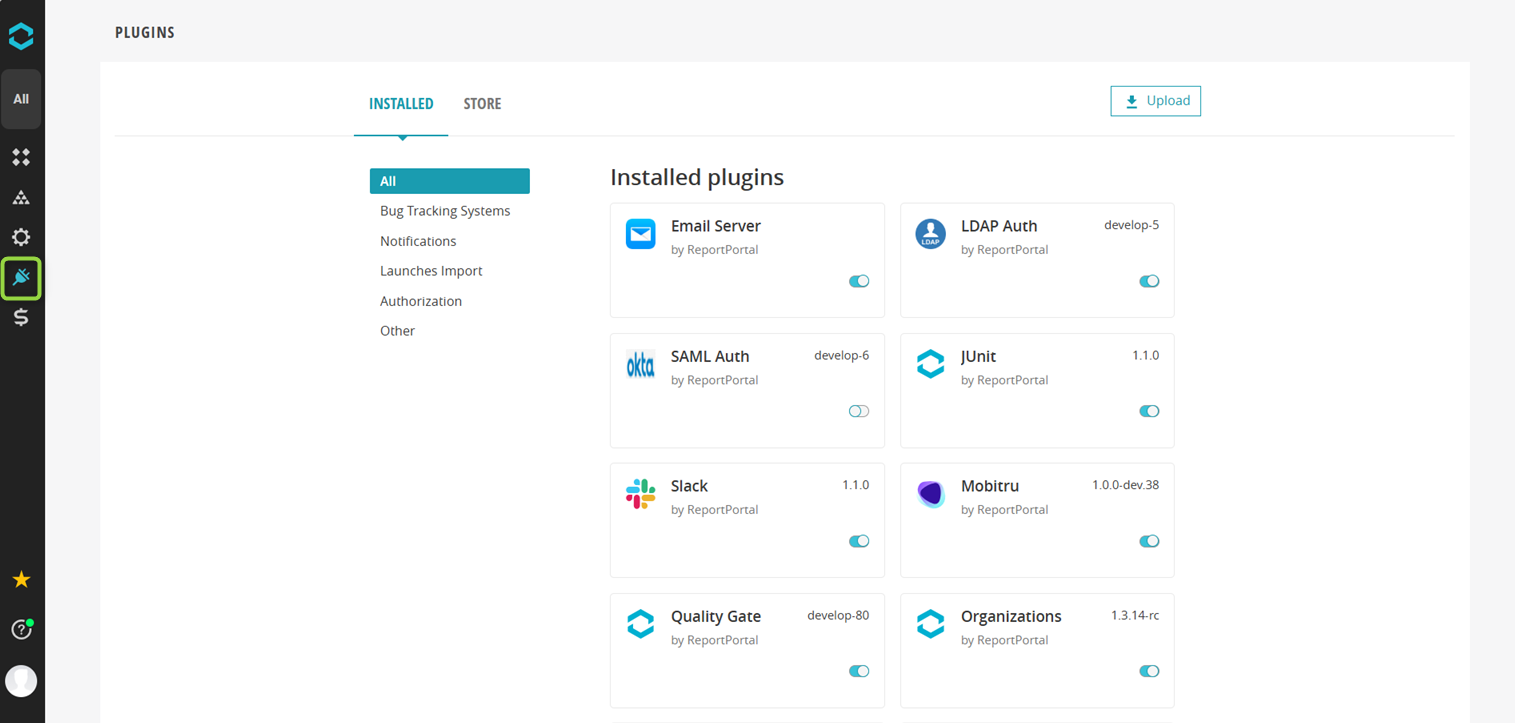
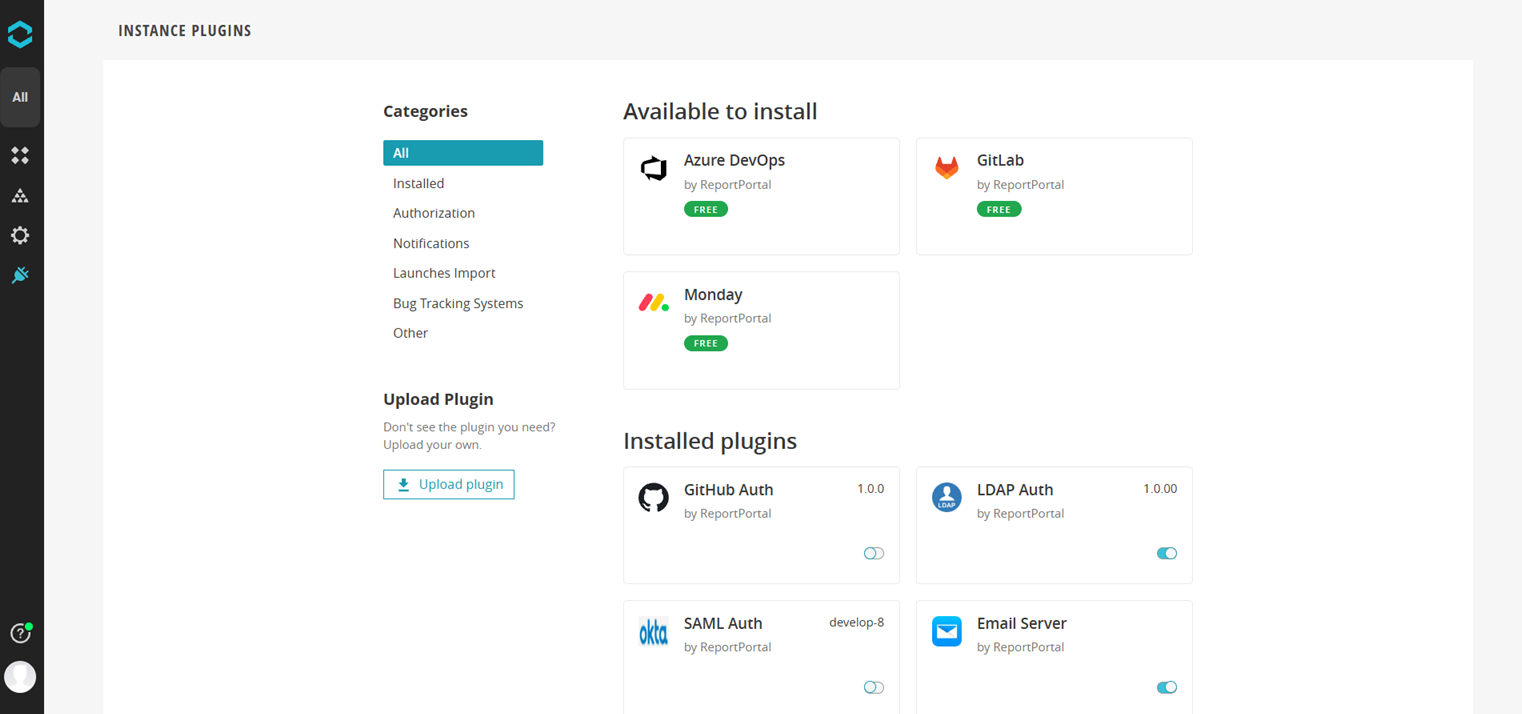
New version Docs

diff --git a/docs/working-with-test-results/saved-searches-filters/FiltersPage.md b/docs/working-with-test-results/saved-searches-filters/FiltersPage.md
@@ -8,6 +8,10 @@ description: Manage and organize saved searches on the filters page. View person
 
 The **Filters page** in ReportPortal is a dedicated space for managing and organizing saved searches, providing a clear and accessible overview of all filters. This page shows your personal filters, making it easy to streamline test data access and focus on relevant information.
 
+:::info
+Admin, Manager, user with edit permissions can do the actions, user with view permissions has only read only access.
+:::
+
 The Filters page includes several key details for each filter:
 
 - **Filter name and description**<br />
@@ -20,12 +24,12 @@ The Filters page includes several key details for each filter:
   The name of the team member who created the filter is displayed.
 
 - **Display on launches toggle**<br />
-  This ON/OFF switch determines if the filter should be readily available on the Launches page. Activating this option makes the filter easily accessible for all users, while deactivating it keeps the filter private.
+  This ON/OFF switch determines if the filter should be readily available on the Automated Launches page. Activating this option makes the filter easily accessible for all users, while deactivating it keeps the filter private.
 
 - **Delete option**<br />
   Each filter has a delete icon, allowing users to remove unnecessary filters if no longer needed.
 
-To open launches based on a saved filter, click on the filter’s name. This action will open a new tab on the Launches page, pre-filtered according to the selected criteria, simplifying navigation through large datasets.
+To open launches based on a saved filter, click on the filter’s name. This action will open a new tab on the Automated Launches page, pre-filtered according to the selected criteria, simplifying navigation through large datasets.
 
 This Filters page is the only location where filters can be permanently deleted from test automation results dashboard. To delete a filter, simply click the delete icon associated with it and confirm the action. Note that while this will remove the filter, it will not delete the test launches or results associated with it.
 

diff --git a/docs/configuration/instance-level/Plugins.md b/docs/configuration/instance-level/Plugins.md
@@ -1,16 +1,16 @@
 ---
 sidebar_position: 4
-sidebar_label: Plugins
+sidebar_label: Instance Plugins
 description: Integrate ReportPortal with bug tracking, notifications, authorization, and import plugins to streamline QA workflows.
 ---
 
-# Plugins
+# Instance Plugins
 
-"Plugins" page can be accessible using sidebar.
+Instance Plugins page can be accessible using sidebar.
 
 <MediaViewer src={require('./img/Plugins.png')} alt="Plugins section in our test report dashboard" />
 
-The Plugins page provides the ability to integrate a variety of plugins with ReportPortal. These plugins are grouped into five main categories: Bug Tracking System plugins, Notification plugins, Authorization plugins, Import plugins, and Other plugins. 
+The Instance Plugins page provides the ability to integrate a variety of plugins with ReportPortal. These plugins are grouped into five main categories: Bug Tracking System plugins, Notification plugins, Authorization plugins, Import plugins, and Other plugins. 
 
 **Bug Tracking Systems** plugins allow you to automatically create tasks for detected defects directly from ReportPortal. This eliminates the need to manually log issues in a bug tracker, enabling teams to resolve defects faster and ensuring a smooth, continuous workflow.
 
@@ -20,7 +20,7 @@ The Plugins page provides the ability to integrate a variety of plugins with Rep
 
 **Import** plugins make it possible to upload test data from different sources directly into ReportPortal, simplifying data migration and consolidating test reports from multiple tools. These plugins are invaluable for teams using diverse testing platforms that need a centralized reporting solution.
 
-The **Other** plugins group includes the Sauce Labs, Test Executions, Quality Gates, and Organizations plugins.
+The **Other** plugins group includes the Sauce Labs, Mobitru, Test Executions, Quality Gates, and Organizations plugins.
 
 Using these plugins, you can tailor ReportPortal to your specific workflows, boosting testing efficiency and enhancing team collaboration.
 

diff --git a/docs/working-with-test-results/test-executions/TestExecutionsPlugin.md b/docs/working-with-test-results/test-executions/TestExecutionsPlugin.md
@@ -57,8 +57,8 @@ The Test Executions plugin is a premium ReportPortal feature. It introduces a fl
 **Upload plugin**
 
 1. Log in to ReportPortal as Admin.
-2. Navigate to the **Plugins** page.
-3. Click the **Upload** button at the top of the page.
+2. Navigate to the **Instance plugins** page.
+3. Click the **Upload Plugin** button.
 4. Add the `.jar` file and click the **Upload** button.
 
 ## Upgrading
